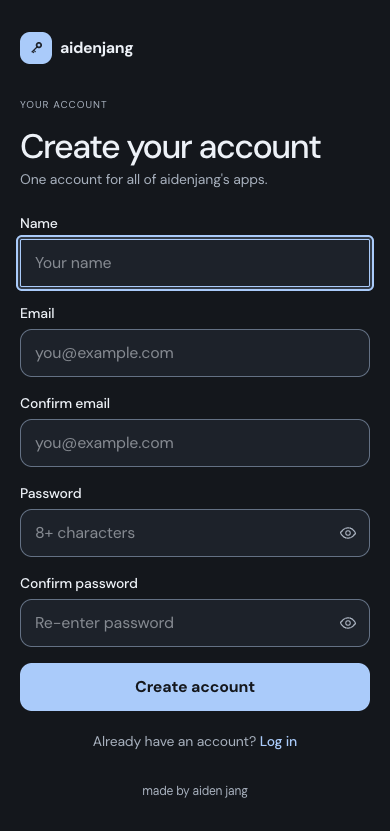
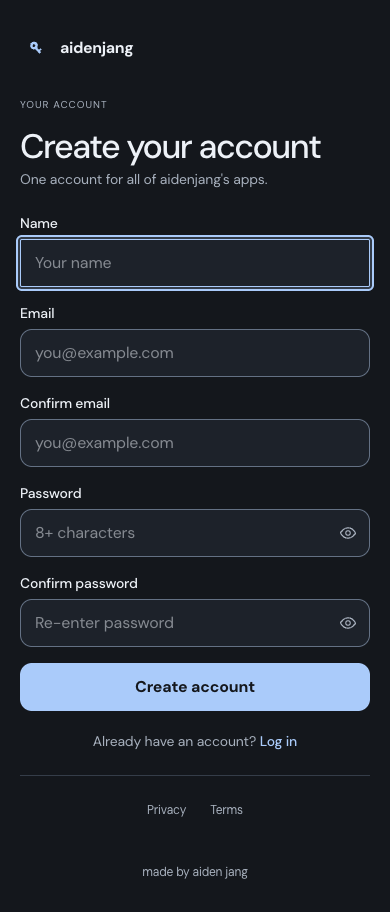
fix: add visible legal links to shared authentication forms

Changed region(s): [[0.0308, 0.0301, 0.9538, 0.9025], [0.3692, 0.9326, 0.6462, 0.9627], [0.9231, 0.5415, 0.9538, 0.5716]]

diff --git a/packages/web/src/components/AuthCard.tsx b/packages/web/src/components/AuthCard.tsx
@@ -194,6 +194,24 @@ export function AuthCard({
           )}
           <div className="mt-6">{children}</div>
 
+          <nav
+            aria-label="Legal"
+            className="mt-6 flex justify-center gap-6 border-t border-line pt-3 text-xs text-muted"
+          >
+            <a
+              href="/privacy"
+              className="inline-flex min-h-11 items-center hover:text-accent hover:underline"
+            >
+              Privacy
+            </a>
+            <a
+              href="/terms"
+              className="inline-flex min-h-11 items-center hover:text-accent hover:underline"
+            >
+              Terms
+            </a>
+          </nav>
+
           {/* The brand panel (which carries the credit) is hidden below md,
               so surface the credit under the form on mobile. */}
           <MadeBy className="mt-8 text-center text-xs text-muted md:hidden" />

diff --git a/docs/ui-qa/README.md b/docs/ui-qa/README.md
@@ -34,3 +34,5 @@ Screens were inspected after the independent Accounts palette and compact form h
 restored after the browser suite released its port.
 
 The October 10 account pass keeps all apps in a compact two-column phone launcher, names the Profile and Sign-in & security sections, and gives Log out an outlined treatment. Account captures were inspected at desktop and phone sizes; 320, 430 and 768px also passed overflow checks. The capture waits for app content and fonts rather than unrelated background loads.
+
+The October 11 legal-link fix adds Privacy and Terms beneath the shared authentication form, including sign-in, registration and recovery. Desktop and phone sign-in and registration captures were inspected; the width checks also confirm both links remain visible and point to the existing policy routes.
